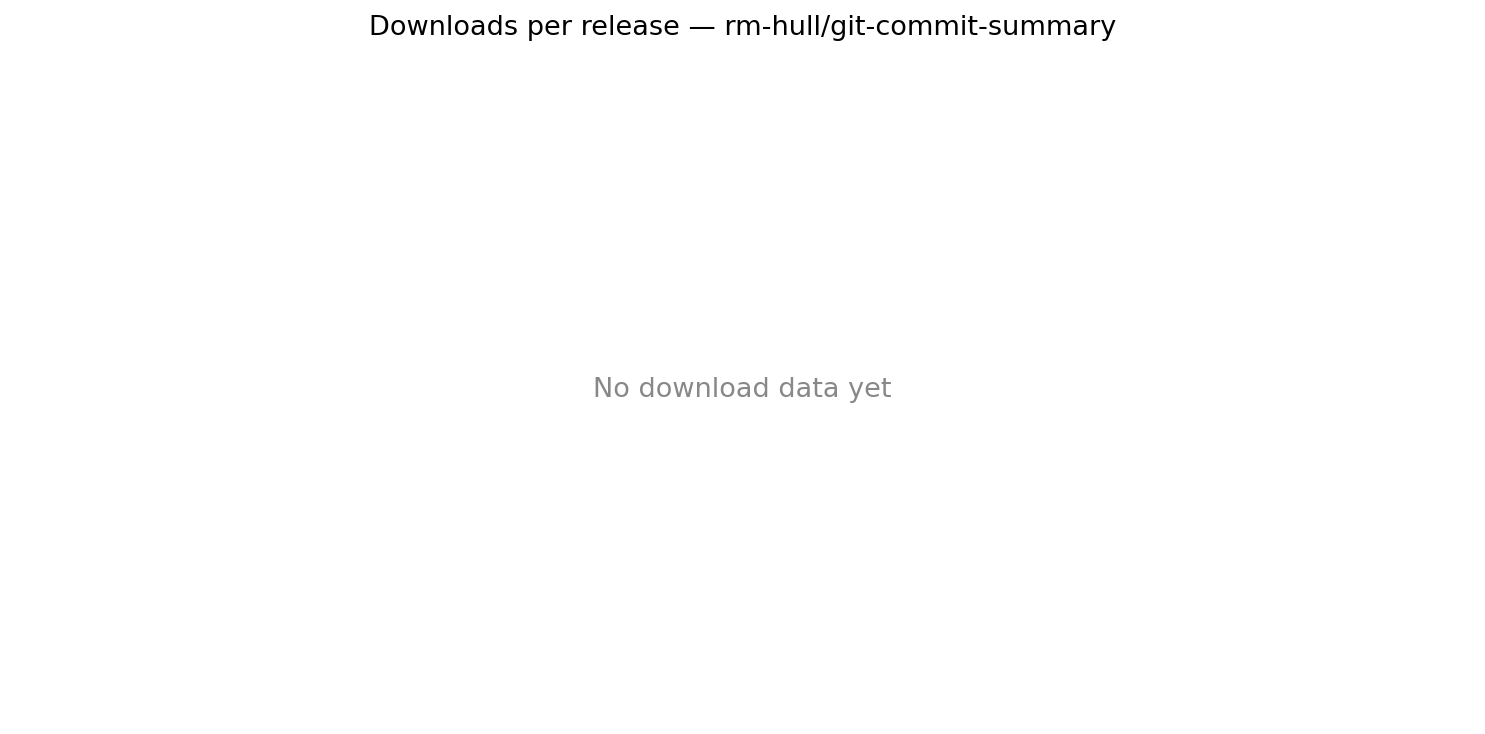
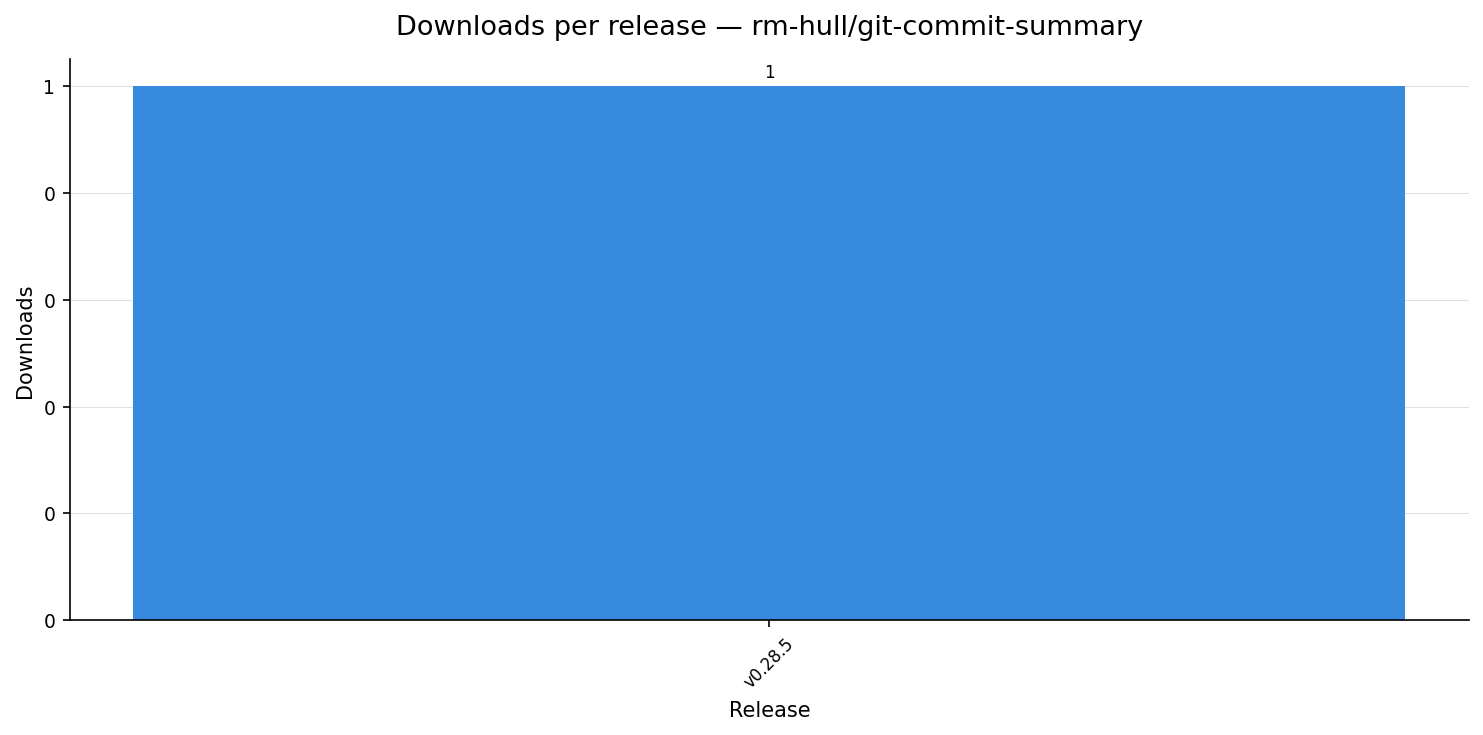
refactor: improve top bar annotation label positioning
Replaced `ax.bar_label` with `ax.annotate` to gain more control over
the label placement, ensuring better alignment and preventing
clipping for the top chart value.

diff --git a/.github/scripts/download_stats.py b/.github/scripts/download_stats.py
@@ -91,11 +91,13 @@ def main():
 
     # Annotate the top bar
     top_idx = counts.index(max(counts))
-    ax.bar_label(
-        plt.matplotlib.container.BarContainer([bars[top_idx]]),
-        labels=[f"{counts[top_idx]:,}"],
-        padding=3,
-        fontsize=8,
+    ax.annotate(
+        f"{counts[top_idx]:,}",
+        xy=(top_idx, counts[top_idx]),
+        xytext=(0, 4),
+        textcoords="offset points",
+        ha="center",
+        fontsize=8
     )
 
     fig.tight_layout()
